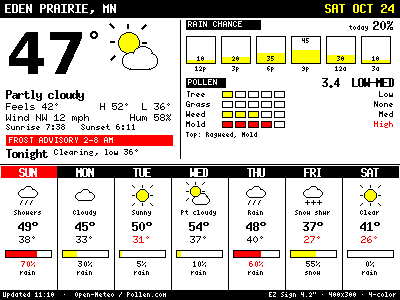
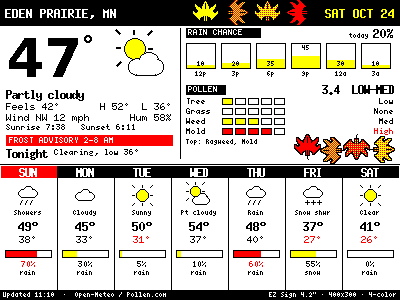
Weather screen: fall maple leaves with red/yellow dithered orange shades
Hand-drawn 25x25 pixel-art leaf used with flips and quarter turns only;
amber / orange / red-orange fills are 2x2 ordered-dither mixes of the
panel's red and yellow inks.

Claude-Session: https://claude.ai/code/session_014UobJA4ToZBu9RZ3YycZTm

Changed region(s): [[0.0, 0.0, 1.0, 0.57]]

diff --git a/tools/gen_weather.py b/tools/gen_weather.py
@@ -84,6 +84,82 @@ def icon(d, x, y, kind, s=1):
         for i in range(4): L(3, 7 + i * 4, 21, 7 + i * 4, K)
 
 
+BAYER2 = [[0.125, 0.625], [0.875, 0.375]]   # 2x2 ordered-dither thresholds
+
+# Hand-drawn 25x25 maple leaf (pixel art; '#' leaf, '|' midrib/stem).
+MAPLE_PX = """
+............#............
+...........###...........
+...........#|#...........
+..#.......##|##.......#..
+..##......##|##......##..
+..###....###|###....###..
+...####..###|###..####...
+...#####.###|###.#####...
+....#################....
+.....###############.....
+#....###############....#
+##..#################..##
+#########################
+.#######################.
+..#####################..
+...#######.#|#.#######...
+....####...#|#...####....
+.....##....#|#....##.....
+......#....#|#....#......
+...........#|#...........
+............|............
+............|............
+............|............
+............|............
+.............|...........
+""".strip("\n").split("\n")
+
+
+def leaf(size, colour, angle, on_dark=False):
+    """Maple leaf sprite (RGBA, exact palette colours) from the pixel-art bitmap.
+    `angle` is a quarter-turn count (0..3) or 'h'/'v' for a flip -- orientation
+    changes only, never resampling, so every pixel stays crisp. `size` is
+    ignored (kept for call compatibility). On white: black edge + midrib; on a
+    dark background: coloured silhouette with the midrib left dark."""
+    from PIL import ImageFilter
+    h, w = len(MAPLE_PX), len(MAPLE_PX[0])
+    body = Image.new("L", (w + 2, h + 2), 0); rib = Image.new("L", (w + 2, h + 2), 0)
+    for y, row in enumerate(MAPLE_PX):
+        for x, ch in enumerate(row):
+            if ch == "#": body.putpixel((x + 1, y + 1), 255)
+            if ch == "|": rib.putpixel((x + 1, y + 1), 255)
+    spr = Image.new("RGBA", body.size, (0, 0, 0, 0))
+    fill = Image.new("RGBA", body.size, (0, 0, 0, 0))
+    if isinstance(colour, str):                      # dithered mix of red and yellow
+        frac_red = {"amber": 0.25, "orange": 0.5, "red-orange": 0.75}[colour]
+        for yy in range(body.height):
+            for xx in range(body.width):
+                fill.putpixel((xx, yy), (Rd if BAYER2[yy % 2][xx % 2] < frac_red else Yl) + (255,))
+        rib_col = Rd
+    else:
+        fill.paste(colour + (255,), [0, 0, body.width, body.height]); rib_col = colour
+    spr.paste(fill, mask=body)
+    colour = rib_col
+    if not on_dark:
+        edge = body.filter(ImageFilter.MaxFilter(3)); edge.paste(0, mask=body)
+        spr.paste((0, 0, 0, 255), mask=edge)
+        spr.paste((0, 0, 0, 255), mask=rib)
+    else:
+        spr.paste(colour + (255,), mask=rib.point(lambda v: 0))   # leave rib unpainted (background shows)
+    if angle == "h": spr = spr.transpose(Image.FLIP_LEFT_RIGHT)
+    elif angle == "v": spr = spr.transpose(Image.FLIP_TOP_BOTTOM)
+    elif angle: spr = spr.rotate(90 * int(angle), expand=True)
+    return spr
+
+
+def leaves(im, spots, on_dark=False):
+    """spots: [(x, y, size, colour, angle), ...]; pastes leaf sprites onto im."""
+    for x, y, size, colour, angle in spots:
+        spr = leaf(size, colour, angle, on_dark)
+        im.paste(spr, (x, y), spr)
+
+
 def T(d, x, y, s, f, c=K):
     d.text((x, y), s, font=f, fill=c); return d.textlength(s, font=f)
 
@@ -103,16 +179,17 @@ def render(data):
     im = Image.new("RGB", (W, H), Wt); d = ImageDraw.Draw(im); d.fontmode = "1"
     t = data["today"]
     # ---- header
-    d.rectangle([0, 0, W, 17], fill=K)
-    T(d, 5, 2, data["place"], F7B, Wt)
-    TR(d, W - 5, 2, data["date"], F7B, Yl)
+    HB = 26
+    d.rectangle([0, 0, W, HB - 1], fill=K)
+    T(d, 5, 7, data["place"], F7B, Wt)
+    TR(d, W - 5, 7, data["date"], F7B, Yl)
     # ---- today (left column, x 0..175)
-    big = ImageFont.truetype(BIG, 58)
+    big = ImageFont.truetype(BIG, 54)
     temp = f"{t['temp']}"
-    d.text((6, 20), temp, font=big, fill=K)
+    d.text((6, 26), temp, font=big, fill=K)
     tw = d.textlength(temp, font=big)
-    d.text((6 + tw + 1, 26), "°", font=ImageFont.truetype(BIG, 24), fill=K)
-    icon(d, 112, 26, t["icon"], s=2)
+    d.text((6 + tw + 1, 30), "°", font=ImageFont.truetype(BIG, 24), fill=K)
+    icon(d, 118, 32, t["icon"], s=2)
     T(d, 6, 88, t["cond"], F6B)
     y = 102
     T(d, 6, y, f"Feels {t['feels']}°", F6); TR(d, 172, y, f"H {t['hi']}°  L {t['lo']}°", F6, Rd if t["lo"] <= 32 else K); y += 11
@@ -125,13 +202,13 @@ def render(data):
     if tonight:
         T(d, 6, y, "Tonight", F6B); T(d, 6 + d.textlength("Tonight ", font=F6B), y + 2, tonight[:30], F5); y += 12
     # ---- right column: rain (x 186..394)
-    X0 = 186; d.line([(180, 20), (180, 158)], fill=K)
-    d.rectangle([X0, 20, X0 + 5 * 14 + 4, 29], fill=K); T(d, X0 + 2, 21, "RAIN CHANCE", F5, Wt)
+    X0 = 186; d.line([(180, HB + 2), (180, 158)], fill=K)
+    d.rectangle([X0, 28, X0 + 5 * 14 + 4, 37], fill=K); T(d, X0 + 2, 29, "RAIN CHANCE", F5, Wt)
     rc = t["rain"]
-    TR(d, W - 6, 19, f"{rc}%", F7B, Rd if rc >= 60 else K)
-    T(d, W - 6 - d.textlength(f"{rc}%", font=F7B) - 4 - d.textlength("today", font=F4), 25, "today", F4)
+    TR(d, W - 6, 27, f"{rc}%", F7B, Rd if rc >= 60 else K)
+    T(d, W - 6 - d.textlength(f"{rc}%", font=F7B) - 4 - d.textlength("today", font=F4), 33, "today", F4)
     # hourly bars
-    hx, hy, bw, bh = X0, 36, 30, 28
+    hx, hy, bw, bh = X0, 43, 30, 26
     for i, (lab, p) in enumerate(data["rain_hours"][:6]):
         x = hx + i * 35
         fh = int(round(bh * p / 100))
@@ -141,7 +218,7 @@ def render(data):
         T(d, x + (bw - d.textlength(f"{p}", font=F4)) // 2, hy + 2 if fh > 10 else hy + bh - 8, f"{p}", F4)
         T(d, x + (bw - d.textlength(lab, font=F4)) // 2, hy + bh + 2, lab, F4)
     # ---- pollen
-    py = 78
+    py = 85
     d.rectangle([X0, py, X0 + 5 * 7 + 4, py + 9], fill=K); T(d, X0 + 2, py + 1, "POLLEN", F5, Wt)
     pol = data["pollen"]
     lvl = pol["level"]; TR(d, W - 6, py - 2, f"{pol['index']:.1f}  {lvl}", F6B, Rd if pol["index"] >= 7.3 else K)
@@ -157,7 +234,7 @@ def render(data):
             d.rectangle([x, ry, x + 10, ry + 6], fill=(Rd if v >= 4 else Yl) if on else Wt, outline=K)
         TR(d, W - 6, ry, ["None", "Low", "Low", "Med", "High", "V.High"][min(v, 5)], F5, Rd if v >= 4 else K)
         ry += 10
-    T(d, X0, ry + 1, "Top: " + pol["top"], F4)
+    T(d, X0, ry + 1, ("Top: " + pol["top"])[:26], F4)
     # ---- 7-day strip
     sy = 166
     d.line([(0, sy - 2), (W, sy - 2)], fill=K)
@@ -177,6 +254,12 @@ def render(data):
         bar(d, x + 5, sy + 84, cw - 10, 8, p / 100, Yl, warn=Rd)
         T(d, cx - d.textlength(f"{p}%", font=F5) // 2, sy + 95, f"{p}%", F5, Rd if p >= 60 else K)
         T(d, cx - d.textlength("rain", font=F4) // 2, sy + 104, "rain" if day["icon"] != "snow" else "snow", F4)
+    # ---- fall leaves (yellow/red on the black header; a drift under the pollen table)
+    if data.get("leaves", True):
+        leaves(im, [(192, 0, 0, Yl, 0), (222, -1, 0, "orange", 3), (254, 0, 0, "amber", "h"),
+                    (286, -1, 0, Rd, 1)], on_dark=True)
+        leaves(im, [(294, 134, 0, Rd, 0), (320, 137, 0, "orange", 1), (343, 133, 0, "red-orange", "v"),
+                    (368, 136, 0, "amber", 3)])
     # footer
     d.rectangle([0, H - 10, W, H], fill=K)
     T(d, 3, H - 8, f"Updated {data['updated']}  ·  Open-Meteo / Pollen.com", F4, Wt)
